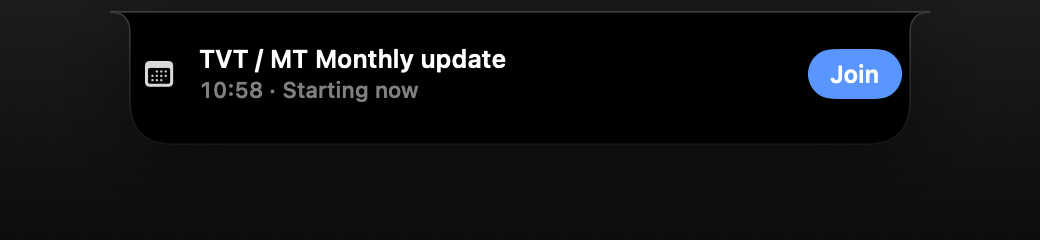
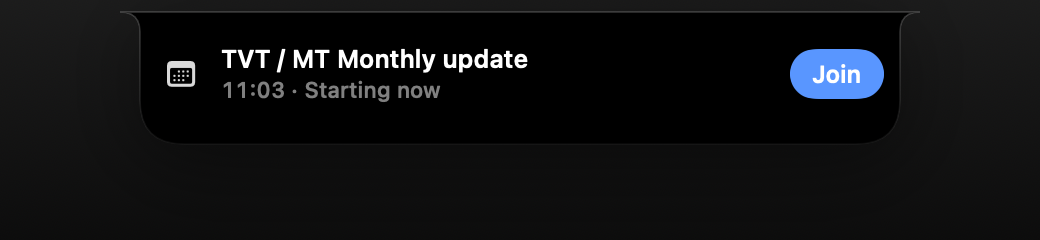
Make idle notch fully click-through with cursor-poll hover; balance alert side padding

diff --git a/Sources/Adhder/Notch/NotchPanel.swift b/Sources/Adhder/Notch/NotchPanel.swift
@@ -39,6 +39,7 @@ final class NotchController {
     private let model: NotchViewModel
     private var geometry: NotchGeometry
     private var cancellables = Set<AnyCancellable>()
+    private var hoverTimer: Timer?
 
     init(model: NotchViewModel) {
         self.model = model
@@ -46,6 +47,8 @@ final class NotchController {
 
         let initial = NotchController.frame(for: .collapsed, geometry: geometry)
         self.panel = NotchPanel(contentRect: initial)
+        // Idle notch must never intercept clicks or hover over the menu bar.
+        panel.ignoresMouseEvents = true
 
         let root = NotchView(model: model, geometry: geometry)
         let hosting = NSHostingView(rootView: root)
@@ -54,6 +57,44 @@ final class NotchController {
 
         panel.orderFrontRegardless()
         observe()
+        startHoverPolling()
+    }
+
+    /// Poll the cursor instead of relying on window hover, so the collapsed
+    /// panel can stay fully click-through while still expanding on intentional hover.
+    private func startHoverPolling() {
+        hoverTimer = Timer.scheduledTimer(withTimeInterval: 0.12, repeats: true) { [weak self] _ in
+            Task { @MainActor in self?.pollHover() }
+        }
+    }
+
+    private func pollHover() {
+        // Never auto-collapse an active alert; it manages its own lifecycle.
+        guard model.activeAlert == nil else { return }
+
+        let mouse = NSEvent.mouseLocation
+        let screen = geometry.screenFrame
+        let triggerWidth = geometry.notchWidth + 16
+        let triggerRect = NSRect(
+            x: screen.midX - triggerWidth / 2,
+            y: screen.maxY - (geometry.notchHeight + 12),
+            width: triggerWidth,
+            height: geometry.notchHeight + 12
+        )
+
+        switch model.presentation {
+        case .collapsed:
+            if triggerRect.contains(mouse) {
+                model.hoverChanged(true)
+            }
+        case .peek:
+            // Stay open while the cursor is anywhere over the expanded panel.
+            if !panel.frame.insetBy(dx: -4, dy: -4).contains(mouse) {
+                model.hoverChanged(false)
+            }
+        case .alert:
+            break
+        }
     }
 
     private func observe() {
@@ -77,6 +118,9 @@ final class NotchController {
     }
 
     private func resize(to presentation: NotchViewModel.Presentation) {
+        // Click-through when collapsed; interactive (buttons) when expanded.
+        panel.ignoresMouseEvents = (presentation == .collapsed)
+
         let frame = NotchController.frame(for: presentation, geometry: geometry)
         NSAnimationContext.runAnimationGroup { ctx in
             ctx.duration = 0.42

diff --git a/Sources/Adhder/Notch/NotchView.swift b/Sources/Adhder/Notch/NotchView.swift
@@ -11,21 +11,22 @@ struct NotchView: View {
         case .collapsed:
             return CGSize(width: geometry.notchWidth, height: geometry.notchHeight)
         case .peek:
-            return CGSize(width: max(geometry.notchWidth + 210, 400), height: geometry.notchHeight + 34)
+            return CGSize(width: max(geometry.notchWidth + 200, 400), height: geometry.notchHeight + 34)
         case .alert:
-            return CGSize(width: 430, height: geometry.notchHeight + 72)
+            return CGSize(width: 440, height: geometry.notchHeight + 78)
         }
     }
 
-    /// Insets so content always clears the physical notch lip at the top.
+    /// Insets so content always clears the physical notch lip at the top and
+    /// keeps clear, balanced breathing room from the island's rounded edges.
     private var contentInsets: EdgeInsets {
         switch model.presentation {
         case .collapsed:
             return EdgeInsets(top: 0, leading: 8, bottom: 0, trailing: 8)
         case .peek:
-            return EdgeInsets(top: geometry.notchHeight * 0.5, leading: 16, bottom: 8, trailing: 14)
+            return EdgeInsets(top: geometry.notchHeight * 0.5, leading: 22, bottom: 9, trailing: 18)
         case .alert:
-            return EdgeInsets(top: geometry.notchHeight + 4, leading: 16, bottom: 14, trailing: 14)
+            return EdgeInsets(top: geometry.notchHeight + 8, leading: 24, bottom: 18, trailing: 20)
         }
     }
 

diff --git a/Sources/Adhder/RenderMode.swift b/Sources/Adhder/RenderMode.swift
@@ -59,8 +59,8 @@ private struct NotchSnapshot: View {
     private var size: CGSize {
         switch state {
         case .collapsed: return CGSize(width: geometry.notchWidth, height: geometry.notchHeight)
-        case .peek: return CGSize(width: max(geometry.notchWidth + 210, 400), height: geometry.notchHeight + 34)
-        case .alert: return CGSize(width: 430, height: geometry.notchHeight + 72)
+        case .peek: return CGSize(width: max(geometry.notchWidth + 200, 400), height: geometry.notchHeight + 34)
+        case .alert: return CGSize(width: 440, height: geometry.notchHeight + 78)
         }
     }
 
@@ -69,8 +69,8 @@ private struct NotchSnapshot: View {
     private var contentInsets: EdgeInsets {
         switch state {
         case .collapsed: return EdgeInsets(top: 0, leading: 8, bottom: 0, trailing: 8)
-        case .peek: return EdgeInsets(top: geometry.notchHeight * 0.5, leading: 16, bottom: 8, trailing: 14)
-        case .alert: return EdgeInsets(top: geometry.notchHeight + 4, leading: 16, bottom: 14, trailing: 14)
+        case .peek: return EdgeInsets(top: geometry.notchHeight * 0.5, leading: 22, bottom: 9, trailing: 18)
+        case .alert: return EdgeInsets(top: geometry.notchHeight + 8, leading: 24, bottom: 18, trailing: 20)
         }
     }
 

diff --git a/Sources/Adhder/main.swift b/Sources/Adhder/main.swift
@@ -10,6 +10,21 @@ MainActor.assumeIsolated {
         exit(0)
     }
 
+    // Geometry diagnostic: `Adhder --geometry` prints resolved notch metrics and exits.
+    if CommandLine.arguments.contains("--geometry") {
+        for screen in NSScreen.screens {
+            let g = NotchGeometry.resolve(for: screen)
+            let f = screen.frame
+            let safe = screen.safeAreaInsets
+            FileHandle.standardOutput.write(Data("""
+            screen frame=\(f) safeTop=\(safe.top) auxL=\(String(describing: screen.auxiliaryTopLeftArea)) auxR=\(String(describing: screen.auxiliaryTopRightArea))
+              -> notchWidth=\(g.notchWidth) notchHeight=\(g.notchHeight) hardwareNotch=\(g.hasHardwareNotch)
+
+            """.utf8))
+        }
+        exit(0)
+    }
+
     // Login-item control for scripting/testing: `Adhder --login on|off|status`.
     if let i = CommandLine.arguments.firstIndex(of: "--login"), i + 1 < CommandLine.arguments.count {
         let arg = CommandLine.arguments[i + 1]

diff --git a/Sources/Adhder/Notch/MeetingGlyph.swift b/Sources/Adhder/Notch/MeetingGlyph.swift
@@ -37,7 +37,7 @@ struct MeetingGlyph: View {
                     .foregroundStyle(.white)
             )
             .frame(width: 44, height: 44)
-            .shadow(color: accent.opacity(0.35), radius: 5, y: 2)
+            .shadow(color: accent.opacity(0.25), radius: 3, y: 2)
             .scaleEffect(appeared || forceVisible ? 1 : 0.7)
             .opacity(appeared || forceVisible ? 1 : 0)
             .onAppear {
